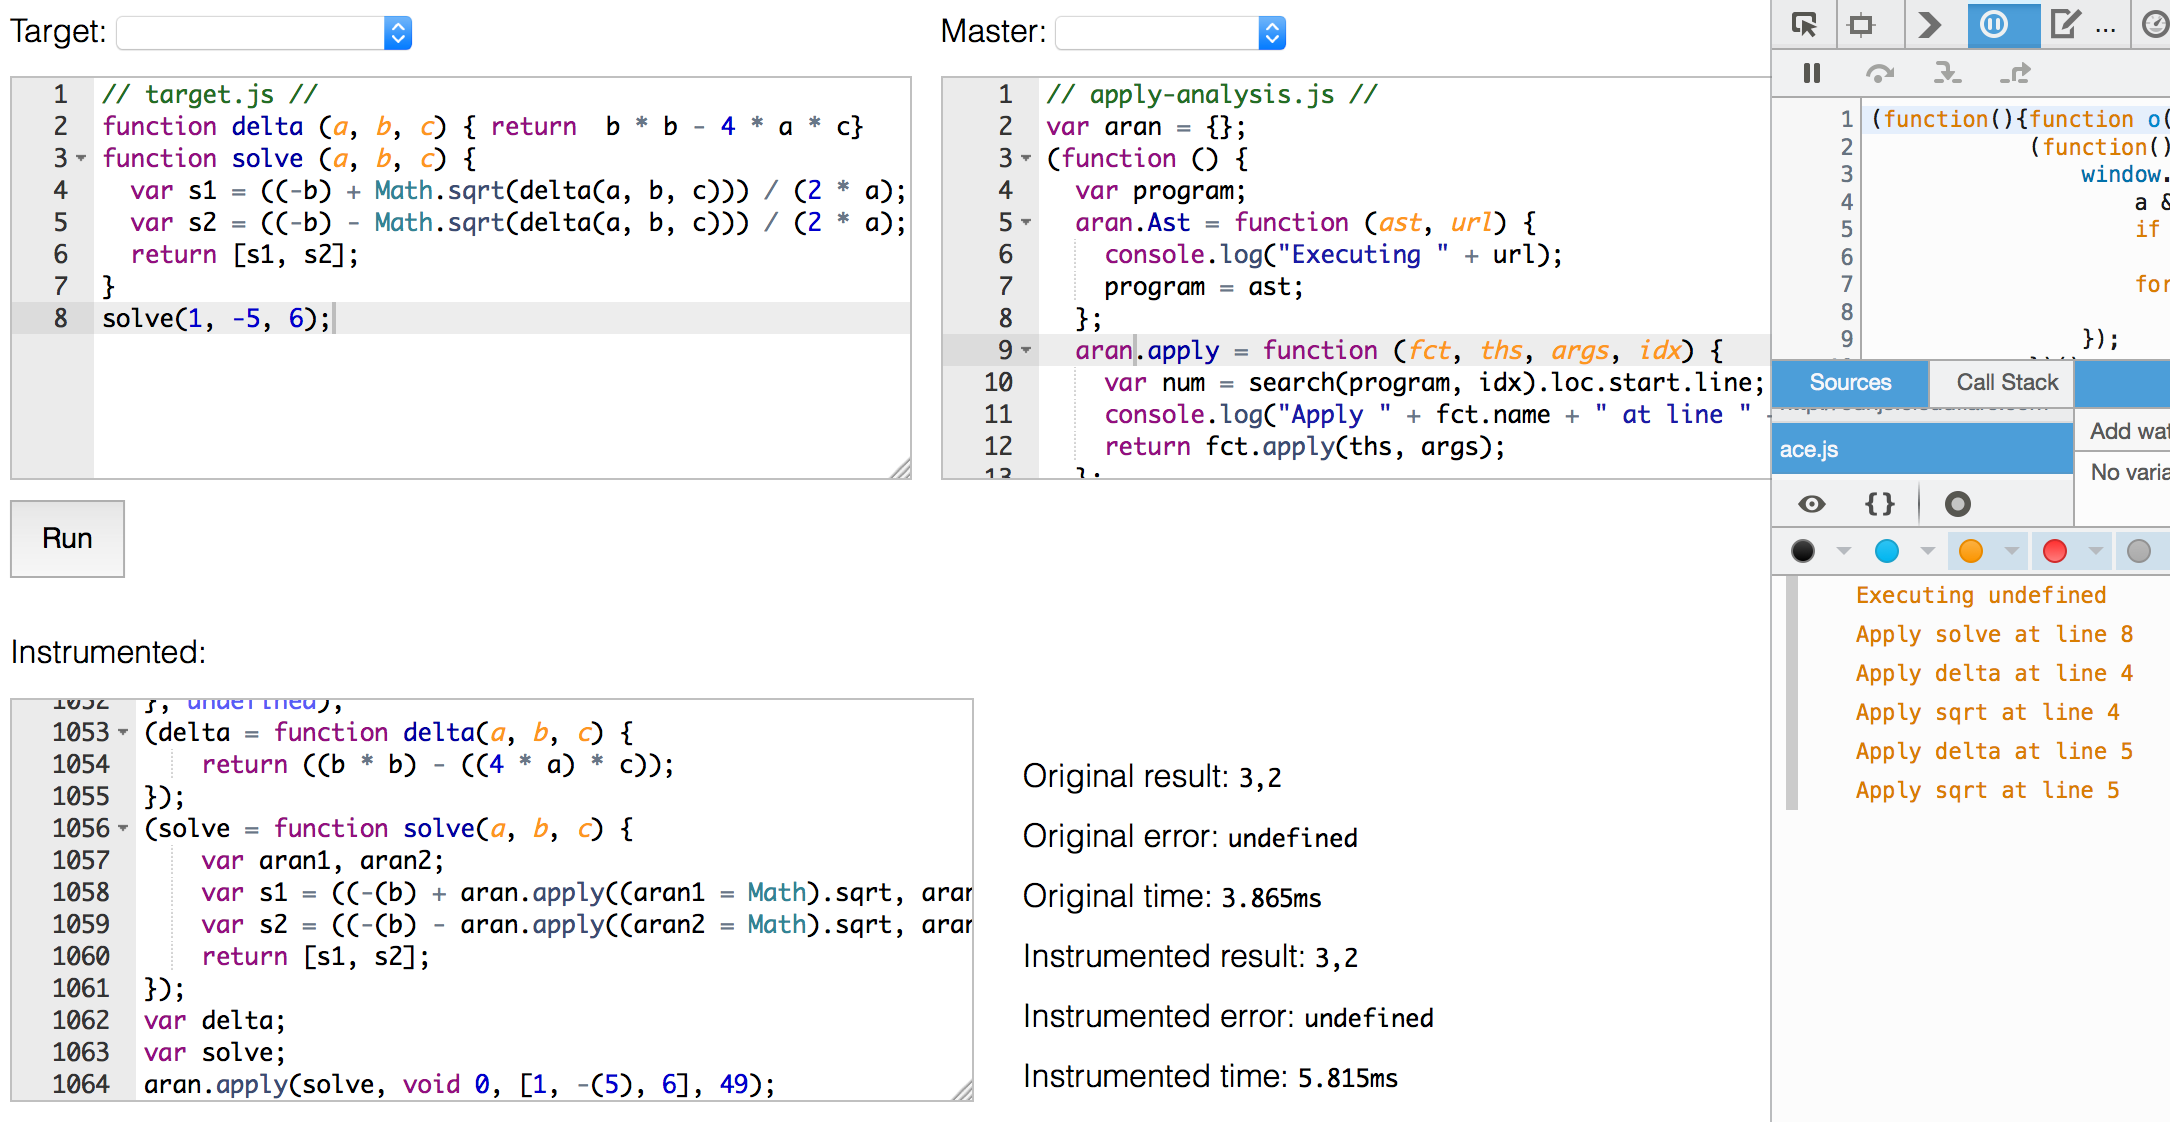
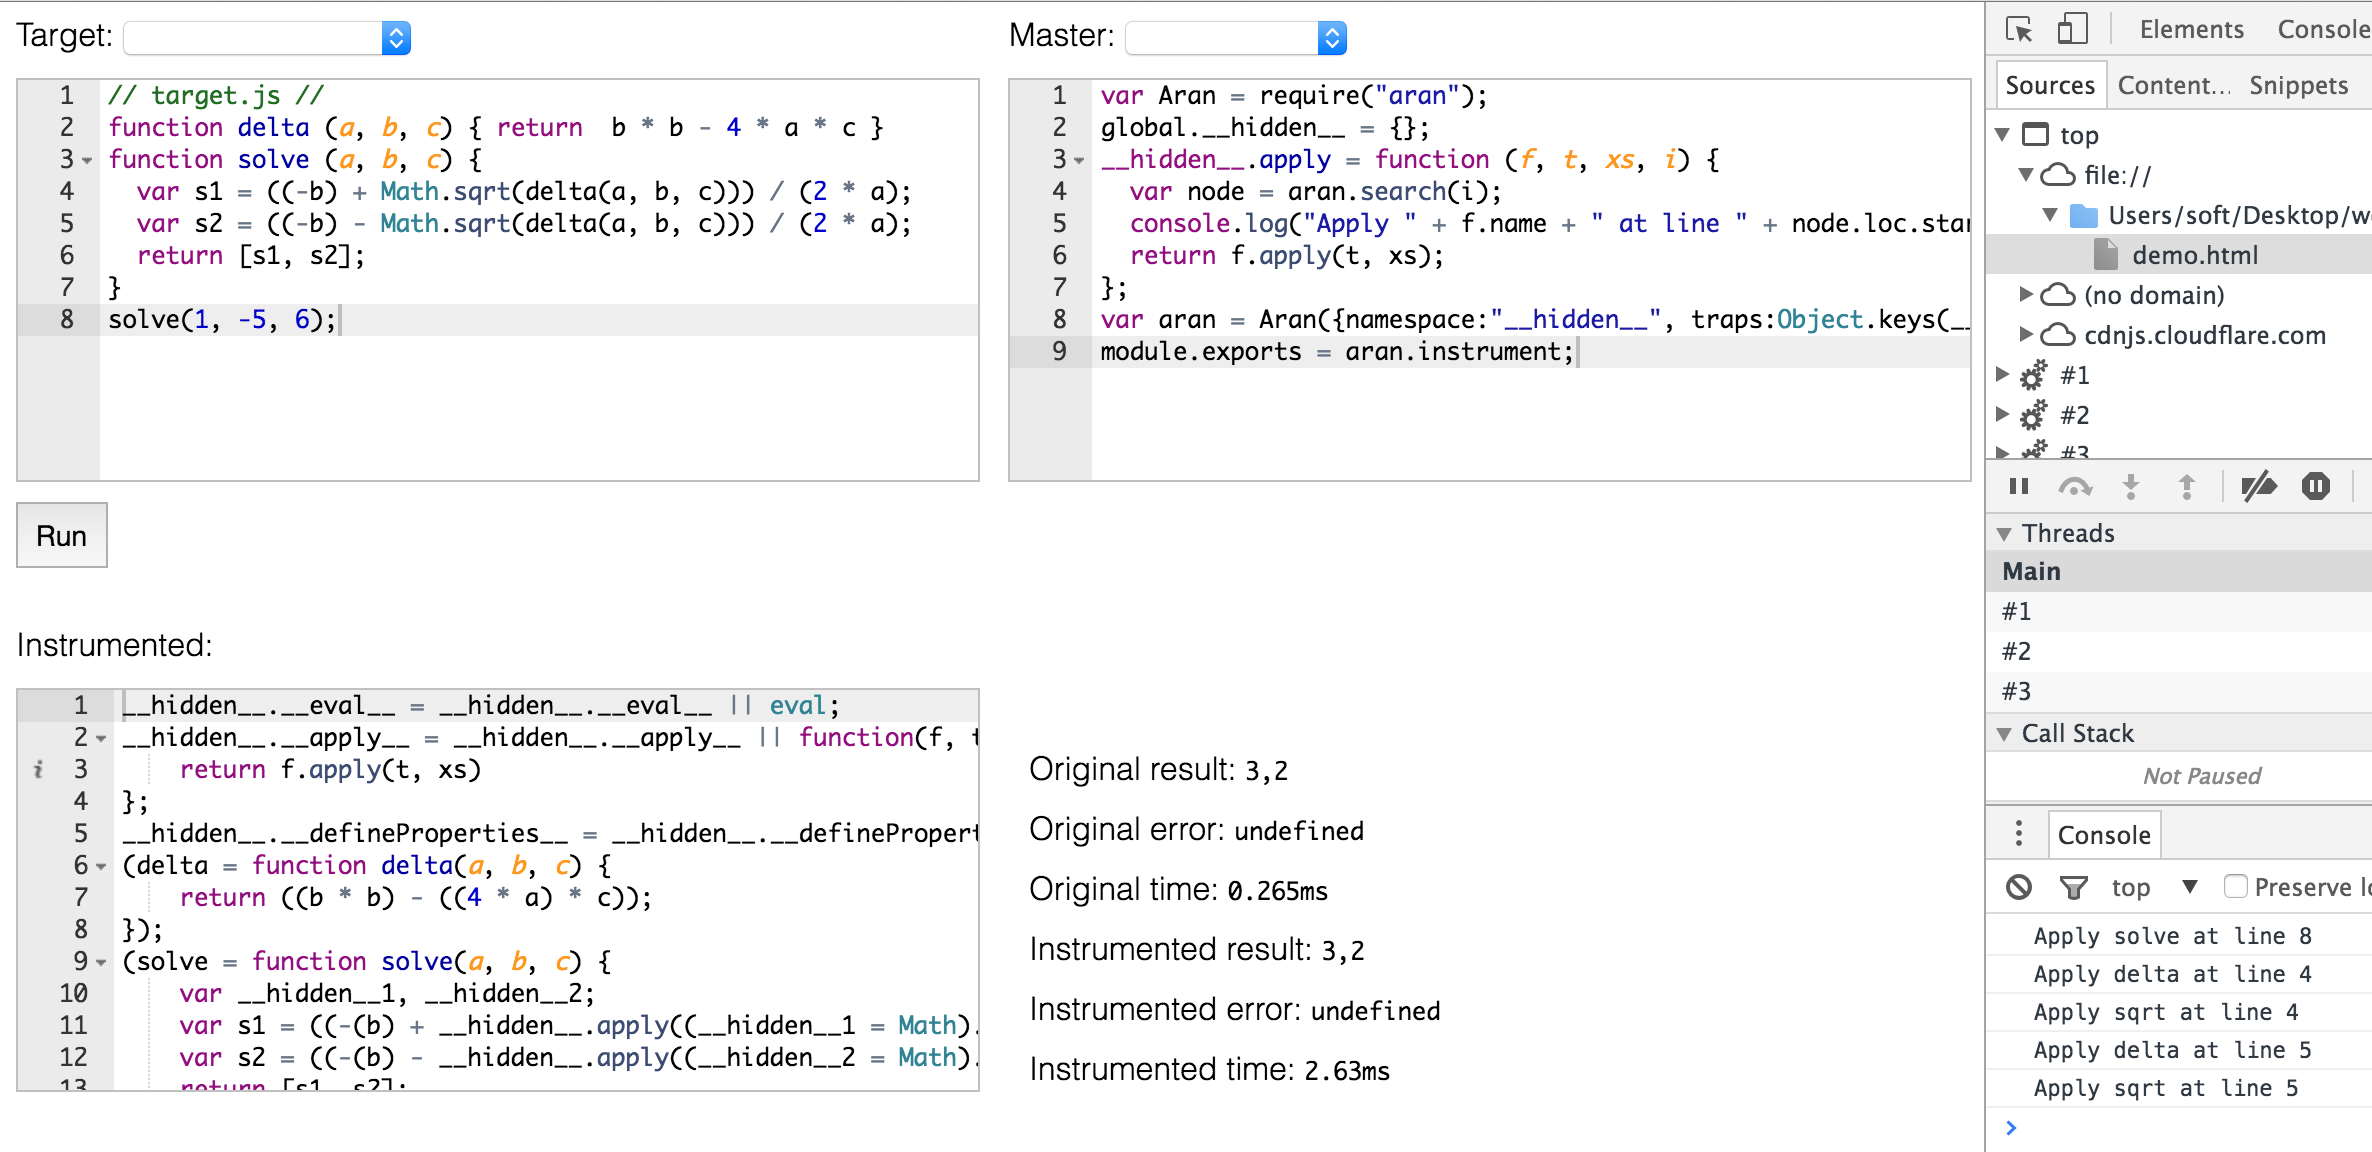
readme

diff --git a/usage/online-monolithic/run.js b/usage/online-monolithic/run.js
@@ -1,5 +1,4 @@
-var Aran = require("../../main.js");
-var fs = require("fs");
+var Aran = require("aran");
 global.__hidden__ = {};
 __hidden__.apply = function (f, t, xs, i) {
   var node = aran.search(i);
@@ -7,5 +6,4 @@ __hidden__.apply = function (f, t, xs, i) {
   return f.apply(t, xs);
 };
 var aran = Aran({namespace:"__hidden__", traps:Object.keys(__hidden__), loc:true});
-var target = fs.readFileSync("../target/monolithic.js", "utf8");
-global.eval(aran.instrument(target));
+module.exports = aran.instrument;

diff --git a/usage/online-modular/node.js b/usage/online-modular/node.js
@@ -1,4 +1,4 @@
-// 
+// http-server ./target/html -p 8000
 
 // otiluke --node --transform ./analysis.js --main ../target/commonjs/main.js
 require("otiluke").node({transform:__dirname+"/analysis.js", main:__dirname+"/../target/node/main.js"});

diff --git a/README.md b/README.md
@@ -4,8 +4,6 @@ Aran is a npm module for instrumenting JavaScript code which enables amongst oth
 Aran performs a source-to-source code transformation fully compatible with [ECMAScript5](http://www.ecma-international.org/ecma-262/5.1/) and we are working toward supporting [ECMAScript6](http://www.ecma-international.org/ecma-262/6.0/).
 To install, run `npm install aran`.
 
-REST IS OUTDATED
-
 ## Demonstration
 
 In Aran, an analysis consists in a set of syntactic traps that will be triggered while the program under scrutiny is being executed.
@@ -16,9 +14,9 @@ In the demo page, the global variable referencing traps has to be called `aran` 
 
 <img src="demo.png" align="center" alt="demo-screenshot" title="Aran's demonstration page"/>
 
-## Low-level Usage
+## Usage
 
-We now demonstrate the basic API of Aran by logging function calls within a program solving the polynomial equation: `x^2 - 5*x + 6 = 0`.
+In the [./usage] We now demonstrate the basic API of Aran by logging function calls within a program solving the polynomial equation: `x^2 - 5*x + 6 = 0`.
 Because Aran is fully written in JavaScript, the instrumentation can happen on the same process as the JavaScript program being analyzed.
 In that case we say that the instrumentation is online.
 By opposition, we refer to offline instrumentation when the instrumentation happens on a separate process.

diff --git a/usage/online-modular/README.md b/usage/online-modular/README.md
@@ -1,0 +1,1 @@
+[./log-mitm.txt](log)
